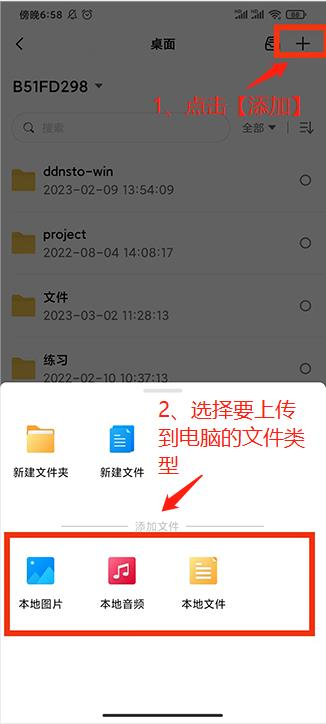
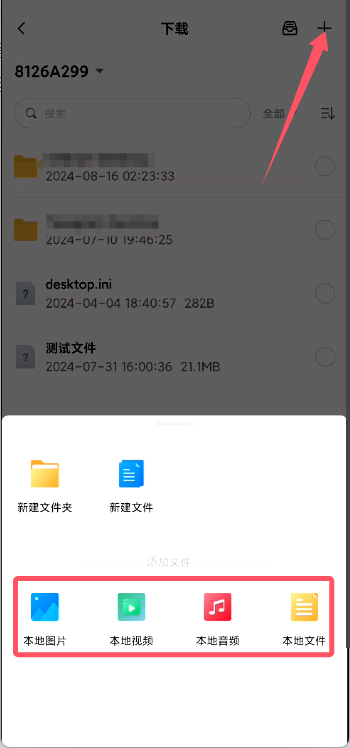
update

diff --git a/docs/zh/guide/linkease/tips/device.md b/docs/zh/guide/linkease/tips/device.md
@@ -18,13 +18,13 @@
 
 ![image](./image/device/2.jpg)
 
-- 【下载】、【桌面】、【用户】、【全部】 就是对应你电脑里面的路径目录
+- 目录位置，就能看到电脑里面的路径目录，这里就只添加【下载】；
 
 ![image](./image/device/3.jpg)
 
 ### 找到目标路径位置
-- 找到你要上传资料到电脑里面的路径位置（比如桌面或者你的任意一个盘位）
-- 点击右上角的【添加】，然后选择你手机本地要上传到电脑的文件类型（可以选择本地图片、本地音频、本地文件）
+- 进入你要上传资料到电脑里面的路径位置
+- 点击右上角的【添加】，然后选择你手机本地要上传到电脑的文件类型（可以选择图片、音频、文件等）
 
 ![image](./image/device/4.jpg)
 
